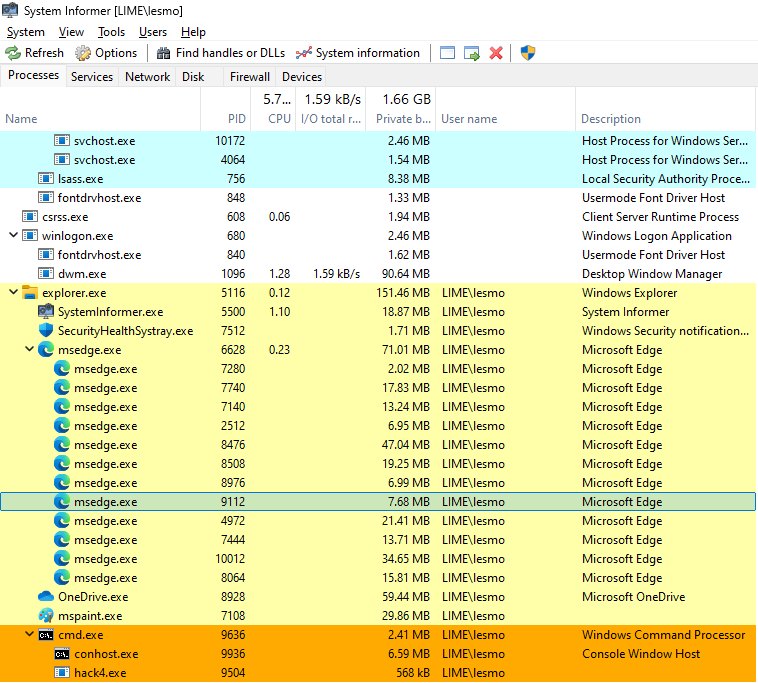
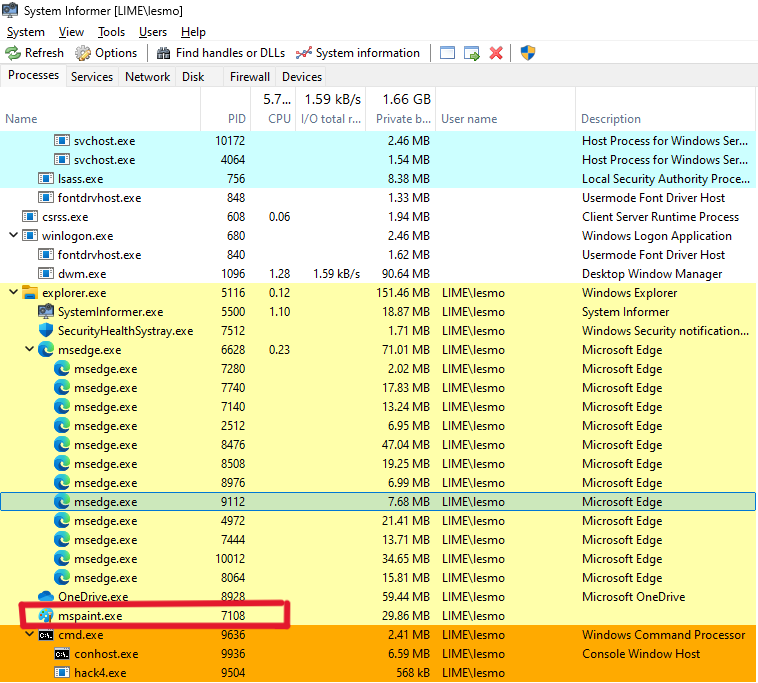
update diescovery

Changed region(s): [[0.0, 0.8609, 0.3945, 0.9224]]

diff --git a/Ch02-Code-Injection/003-DLL-Injection/README.md b/Ch02-Code-Injection/003-DLL-Injection/README.md
@@ -60,3 +60,9 @@ hack4.exe <PID>
 - Check if the message box appears in the target application (mspaint.exe).
 ![PID](./screenshots/01.png)
 - I have added error handling in `hack4.c`, you'll be able to see any issues that occur during each step of the process, making it easier to identify what might be going wrong.
+
+---
+
+# Discovery
+With powerful `Process Hacker`, it's clear that DLL has been injected into `mspaint.exe`.
+

diff --git a/README.md b/README.md
@@ -2,3 +2,8 @@
 Original codes is from [Malware-Development-for-Ethical-Hackers
 ](https://github.com/PacktPublishing/Malware-Development-for-Ethical-Hackers) by Zhassulan Zhussupov, 2024.
 
+# Tools
+- [Process Hacker](https://processhacker.sourceforge.io/)
+- Kali VM 
+- Windows 11 VM
+- Parrot 
